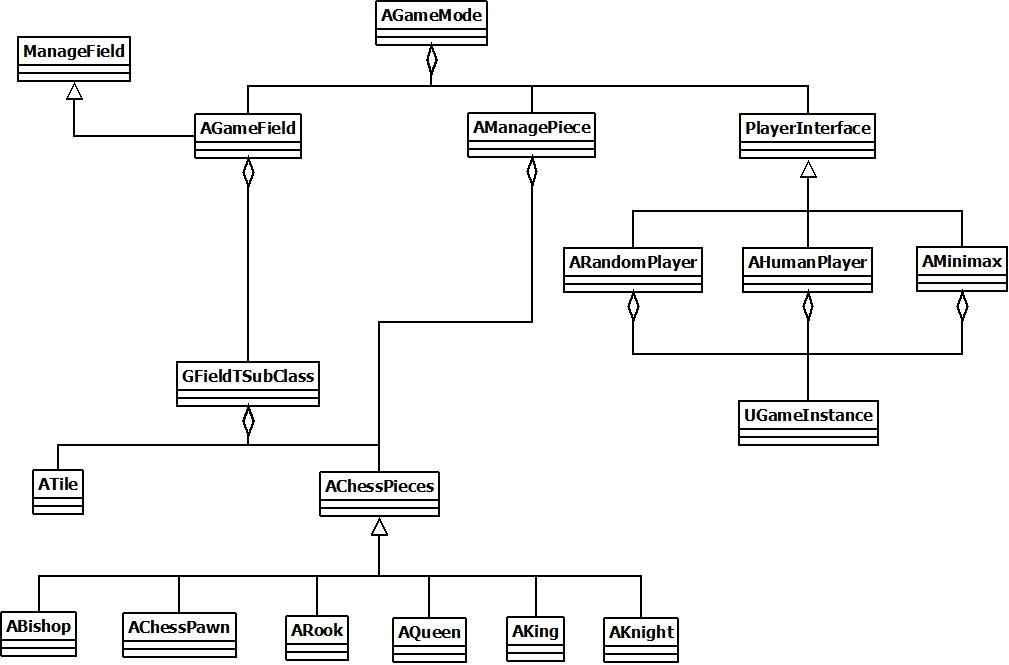
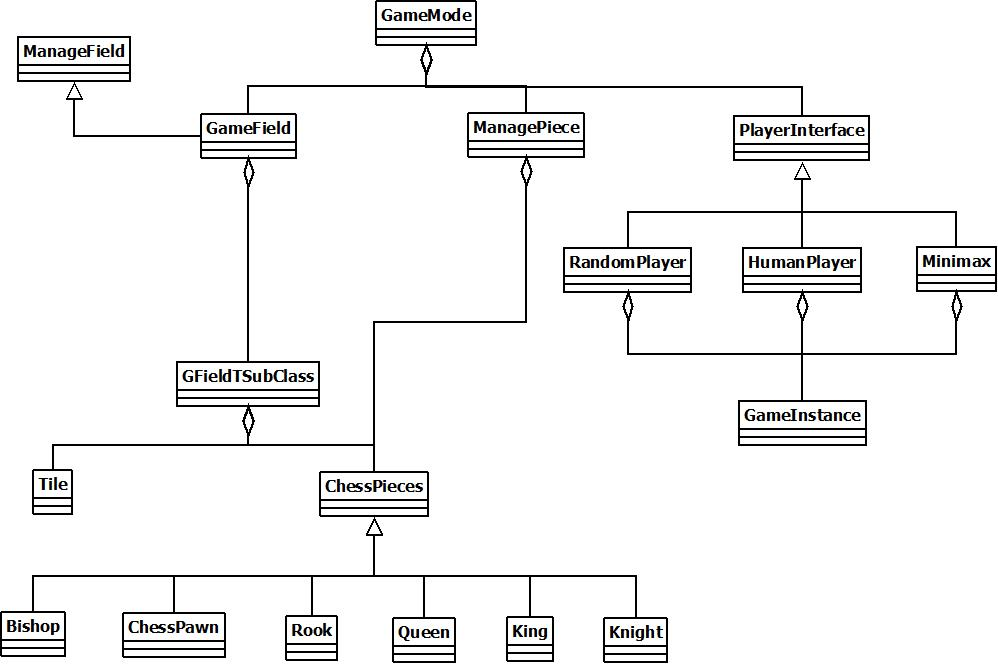
optimization

diff --git a/Source/Chess/Private/Manager/Chess_GameMode.cpp b/Source/Chess/Private/Manager/Chess_GameMode.cpp
@@ -61,6 +61,7 @@ void AChess_GameMode::BeginPlay()
 		Players.Add(HumanPlayer);
 		Players.Add(AI);
 	}
+	// Demonstration mode: Random vs Random
 	else if (GameInstance->ChooseAiPlayer == "Random-Random")
 	{
 		auto* Player1 = GetWorld()->SpawnActor<AChess_RandomPlayer>(FVector(), FRotator());
@@ -69,6 +70,7 @@ void AChess_GameMode::BeginPlay()
 		Players.Add(Player1);
 		Players.Add(AI);
 	}
+	// Demonstration mode: Random vs Minimax
 	else if (GameInstance->ChooseAiPlayer == "Random-Minimax")
 	{
 		auto* Player1 = GetWorld()->SpawnActor<AChess_RandomPlayer>(FVector(), FRotator());
@@ -77,6 +79,7 @@ void AChess_GameMode::BeginPlay()
 		Players.Add(Player1);
 		Players.Add(AI);
 	}
+	// Demonstration mode: Minimax vs Minimax
 	else if (GameInstance->ChooseAiPlayer == "Minimax-Minimax")
 	{
 		auto* Player1 = GetWorld()->SpawnActor<AChess_Minimax>(FVector(), FRotator());
@@ -93,7 +96,7 @@ void AChess_GameMode::BeginPlay()
 		Players.Add(AI);
 	}
 
-	this->ChoosePlayerAndStartGame();
+	ChoosePlayerAndStartGame();
 }
 
 void AChess_GameMode::BeginDestroy()

diff --git a/Source/Chess/Public/Manager/Chess_GameInstance.h b/Source/Chess/Public/Manager/Chess_GameInstance.h
@@ -14,15 +14,6 @@ class CHESS_API UChess_GameInstance : public UGameInstance
 {
 	GENERATED_BODY()
 	
-protected:
-	// score value for human player
-	UPROPERTY(EditAnywhere)
-	FString Info;
-
-	// Message to show every turn
-	UPROPERTY(EditAnywhere)
-	FString CurrentTurnMessage = "Current Player";
-
 public:
 	UPROPERTY(VisibleAnywhere)
 	FString ChooseAiPlayer = "Easy";
@@ -45,4 +36,14 @@ public:
 	// Set the turn message
 	UFUNCTION(BlueprintCallable)
 	void SetTurnMessage(FString Message);
+
+protected:
+	// Info about the move
+	UPROPERTY(EditAnywhere)
+	FString Info;
+
+	// Message to show every turn
+	UPROPERTY(EditAnywhere)
+	FString CurrentTurnMessage = "Current Player";
+
 };

diff --git a/Game_Data/Statistics/Chess_Statistics.py b/Game_Data/Statistics/Chess_Statistics.py
@@ -83,7 +83,7 @@ def SetStyle(excel_file, sheet):
                 cell.alignment = openpyxl.styles.Alignment(horizontal='center', vertical='center')
 
 
-path_array = ["../CSV/Human-Random.csv", "../CSV/Human-Minimax.csv", "../CSV/Random-Random.csv", "../CSV/Random-Minimax.csv", "../CSV/Minimax-Minimax.csv"]
+path_array = ["../CSV/Random-Random.csv", "../CSV/Random-Minimax.csv", "../CSV/Minimax-Minimax.csv", "../CSV/Human-Random.csv", "../CSV/Human-Minimax.csv"]
 
 script_dir = os.path.abspath(__file__)
 parent_dir = os.path.dirname(script_dir)

diff --git a/Source/Chess/Public/Player/Chess_HumanPlayer.h b/Source/Chess/Public/Player/Chess_HumanPlayer.h
@@ -70,10 +70,10 @@ protected:
 	// Handle clicking on a human piece
 	void ManageClickPiece(AActor* HitActor);
 
-	// checks if a piece of the human has been selected
+	// Checks if a piece of the human has been selected
 	bool FindPiece(FString ClassName);
-	// checks if a tile has been selected
+	// Checks if a tile has been selected
 	bool FindTile(FString ClassName);
-	// checks if a enemy piece has been selected
+	// Checks if a enemy piece has been selected
 	bool FindPieceToCapture(FString ClassName);
 };

diff --git a/Source/Chess/Private/Manager/ManagePiece.cpp b/Source/Chess/Private/Manager/ManagePiece.cpp
@@ -250,7 +250,6 @@ void AManagePiece::MovePiece(const int32 PlayerNumber, AChessPieces* Piece, FVec
 	// 3.) Promotion
 
 	// Manage pawn promotion for human player
-	
 	if ((Piece->IsA<AChessPawn>()) && Piece->Color == EPieceColor::WHITE && (Piece->GetGridPosition().X == 7.0)
 		&& (GameInstance->ChooseAiPlayer == "Hard" || GameInstance->ChooseAiPlayer == "Easy"))
 	{

diff --git a/Source/Chess/Public/FieldElement/ManageField.h b/Source/Chess/Public/FieldElement/ManageField.h
@@ -41,7 +41,6 @@ protected:
 	UPROPERTY(Transient)
 	TArray<AChessPieces*> Player1Pieces;
 
-	//TODO: mettere dinamicamente il materiale e togliere questo vettore
 	UPROPERTY(Transient)
 	TArray<ATile*> TileMarked;
 
